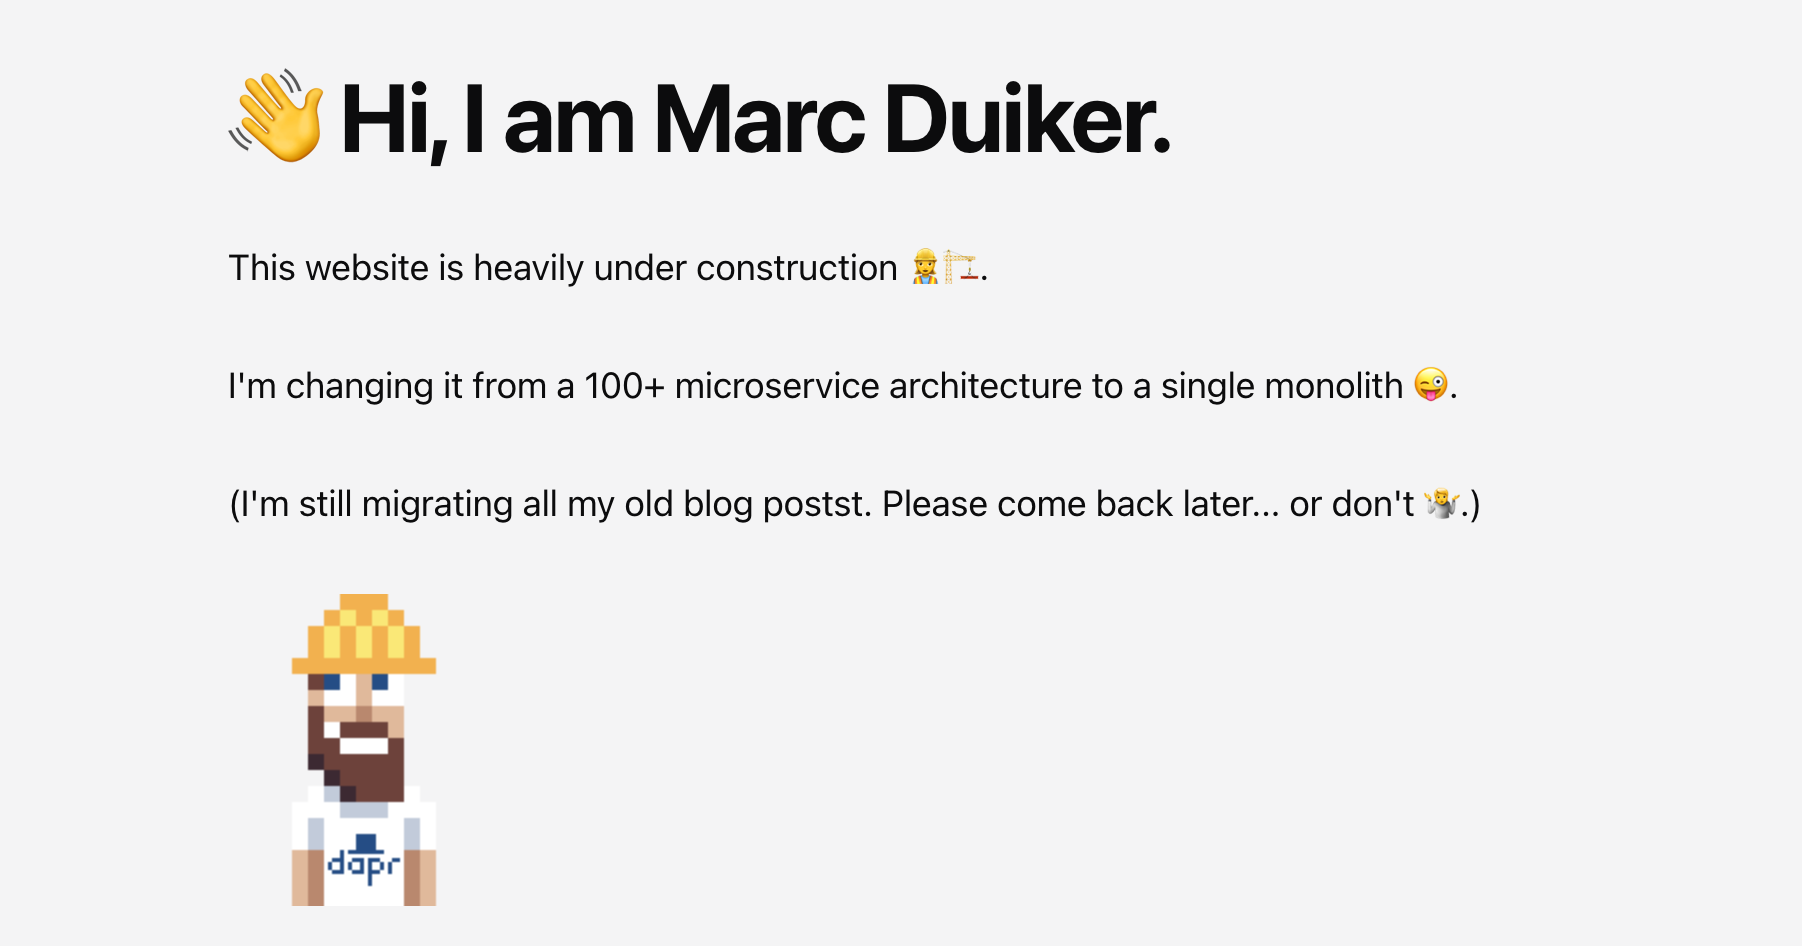
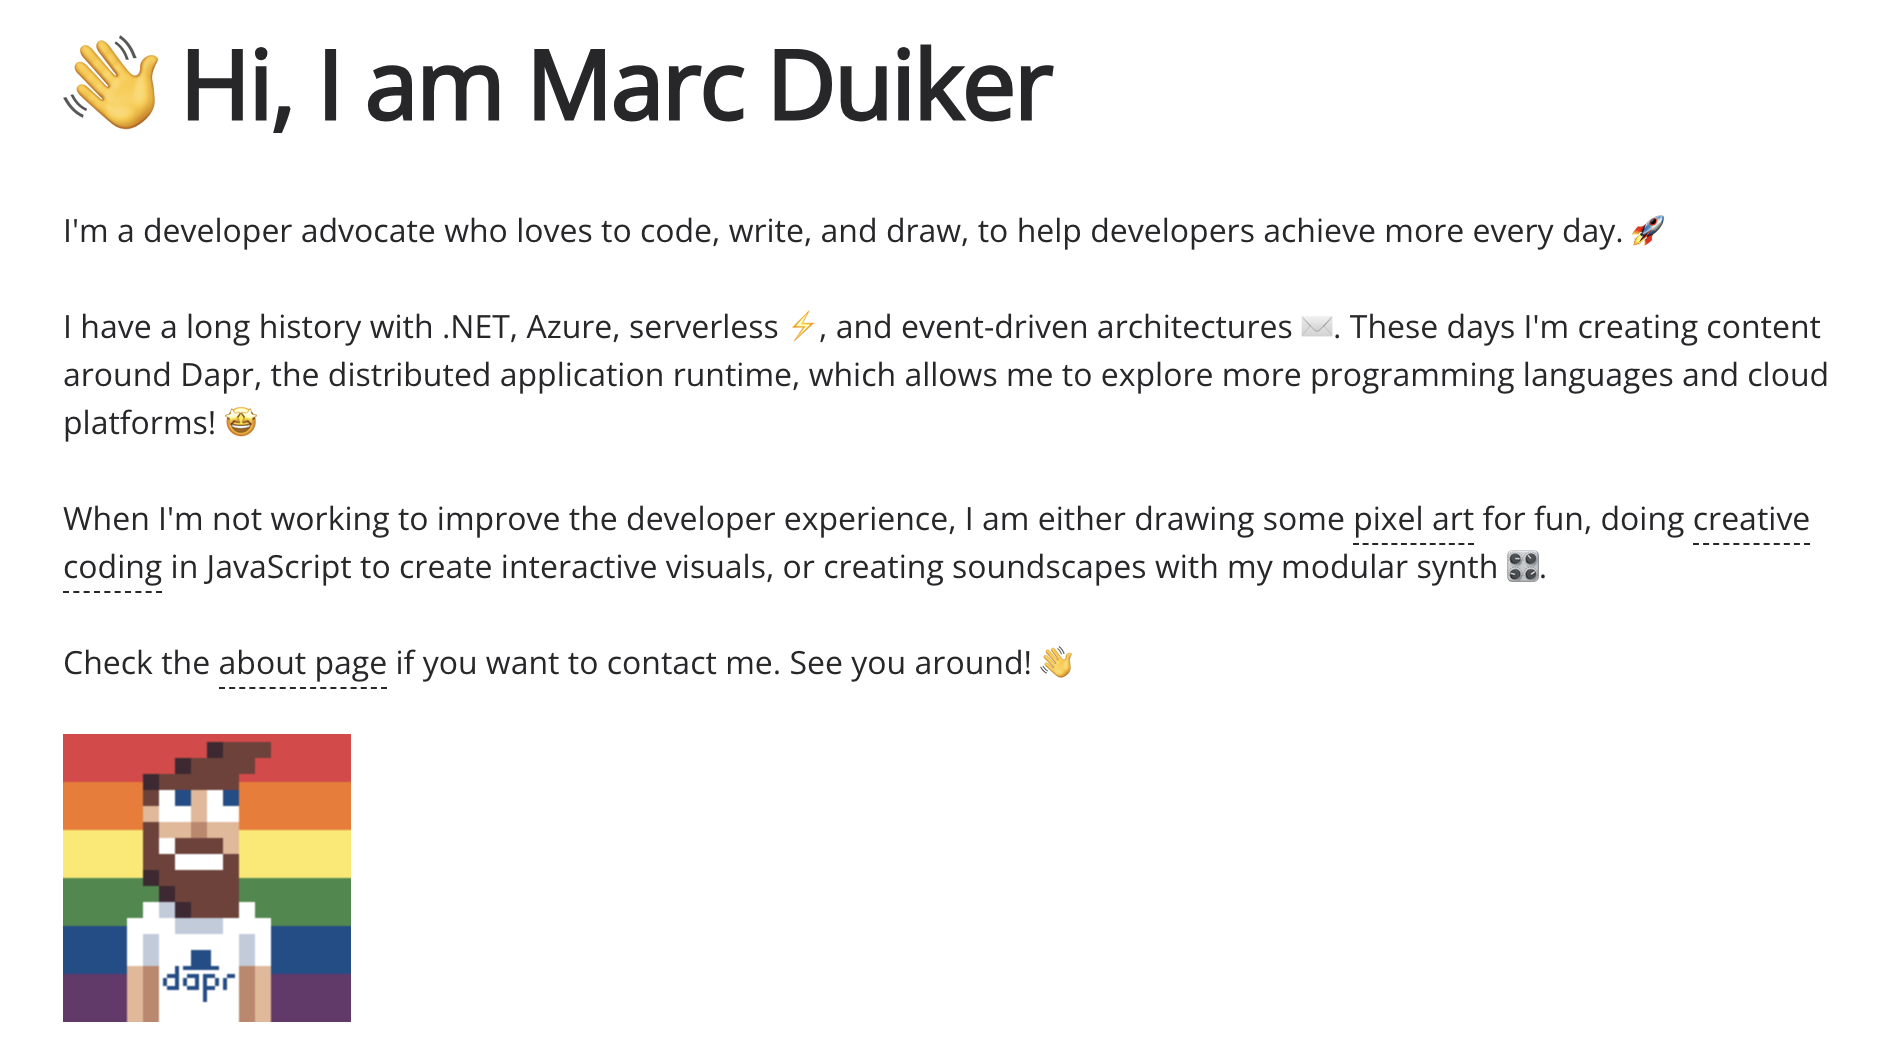
Upate index and about

diff --git a/content/6.about.md b/content/6.about.md
@@ -7,16 +7,17 @@ layout: default
 
 Marc is a Sr Developer Advocate at [Diagrid](https://diagrid.io) with a strong focus on event-driven architectures in the cloud. He loves helping developers to achieve more every day.
 
-You might have seen Marc at a developer meetup or conference since he's a regular speaker in the area of Dapr, Azure cloud, and serverless technologies. He started [Azure Functions University](https://github.com/marcduiker/azure-functions-university), a free and open source learning curriculum on GitHub, where everyone can learn about Azure Functions at their own pace. From 2019 to 2023 Marc received the Microsoft Azure MVP award for his community contributions.
+You might have seen Marc at a developer meetup or conference since he's a regular speaker in the area of Dapr, Azure cloud, and serverless technologies. 
+From 2019 to 2024 Marc received the Microsoft Azure MVP award for his community contributions.
 
-In his spare time, Marc likes to give attention to the creative part of his brain. He likes to create pixel art (check out VSCode Pets), code visuals & music, and an occasional retro game.
+In his spare time, Marc likes to give attention to the creative part of his brain. He likes to create pixel art (check out [VSCode Pets](https://marketplace.visualstudio.com/items?itemName=tonybaloney.vscode-pets)), code visuals & music, and an occasional retro game.
 
 ### Connect with me on the web
 
-- [Follow me on Twitter](https://twitter.com/marcduiker)
-- [Follow me on Mastodon](https://mstdn.social/@marcduiker)
-- [Follow me on YouTube](https://www.youtube.com/@marcduiker)
-- [Follow me on dev.to](https://dev.to/marcduiker)
-- [Connect with me on LinkedIn](https://www.linkedin.com/in/mduiker/)
-- [Have a look at my open source projects on GitHub](https://www.github.com/marcduiker)
-- [Sponsor my pixelart or commission me via Ko-fi](https://ko-fi.com/marcduiker)
+- [Follow me on Twitter](https://twitter.com/marcduiker) <Icon name="uil:twitter" size=24 />
+- [Follow me on Mastodon](https://mstdn.social/@marcduiker) <Icon name="uil:comment" size=24 />
+- [Follow me on YouTube](https://www.youtube.com/@marcduiker) <Icon name="uil:youtube" size=24 />
+- [Follow me on dev.to](https://dev.to/marcduiker) <Icon name="uil:pen" size=24 />
+- [Connect with me on LinkedIn](https://www.linkedin.com/in/mduiker/) <Icon name="uil:linkedin" size=24 />
+- [Have a look at my open source projects on GitHub](https://www.github.com/marcduiker) <Icon name="uil:github" size=24 />
+- [Sponsor my pixelart or commission me via Ko-fi](https://ko-fi.com/marcduiker) <Icon name="uil:illustration" size=24 />

diff --git a/content/1.index.md b/content/1.index.md
@@ -7,13 +7,15 @@ title: Home
 
 # 👋 Hi, I am Marc Duiker
 
-This website is heavily under construction 👷♀🏗. 
+I'm a developer advocate who loves to code, write, and draw, to help developers achieve more every day. 🚀
 
-I'm changing it from a 100+ microservice architecture to a single monolith 😜.
+I have a long history with .NET, Azure, serverless ⚡, and event-driven architectures ✉. These days I'm creating content around Dapr, the distributed application runtime, which allows me to explore more programming languages and cloud platforms! 🤩
 
-Please come back later... or don't :shrug:.
+When I'm not working to improve the developer experience, I am either drawing some [pixel art](/pixelart) for fun, doing [creative coding](creative-coding) in JavaScript to create interactive visuals, or creating soundscapes with my modular synth 🎛.
 
-![Marc Duiker pixelart avatar](/marcduiker_hardhat.gif)
+Check the [about page](/about) if you want to contact me. See you around! 👋
+
+![Marc Duiker pixelart avatar](/marcduiker_dapr_rainbow_eyes.gif)
 
 ::card-grid
 #title
@@ -49,11 +51,3 @@ Things I love doing
   :: -->
 ::
 
-### //TODO
-
-- [X] Migrate blog posts (in progress)
-- [ ] Add graphics
-- [ ] Add page on DevEx
-- [X] Add page on pixel art
-- [X] Add page on creative coding
-- [ ] Update this index page
